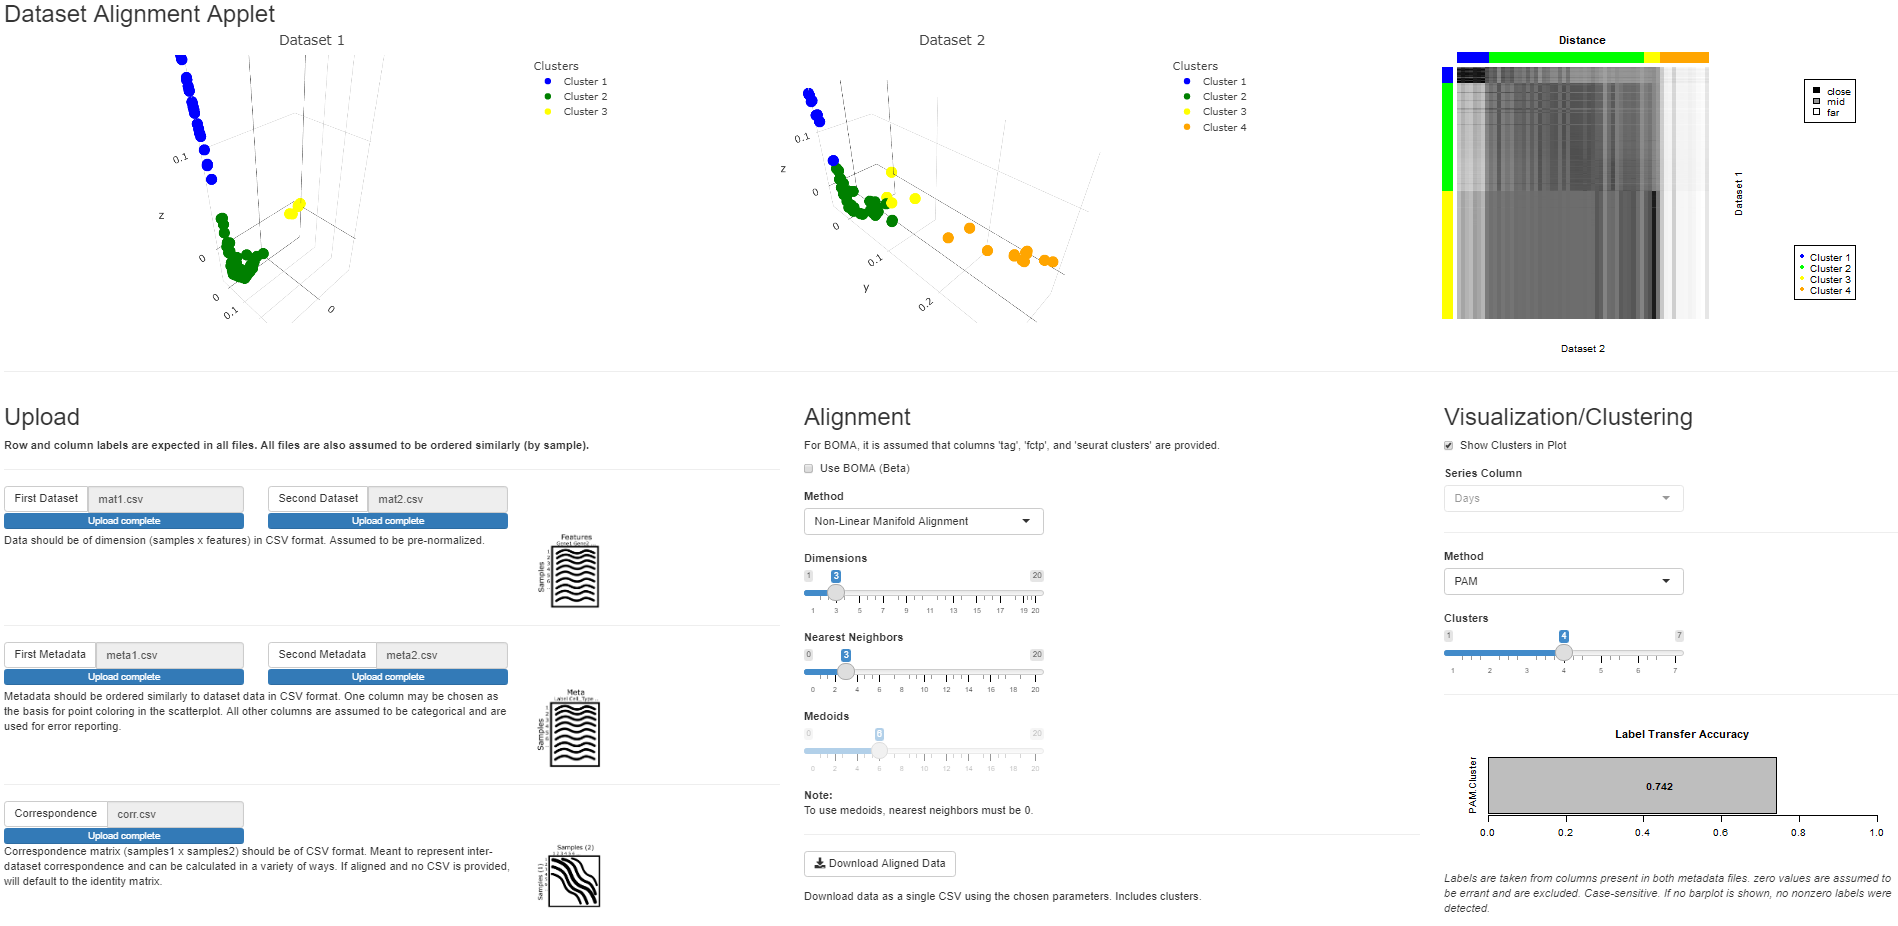
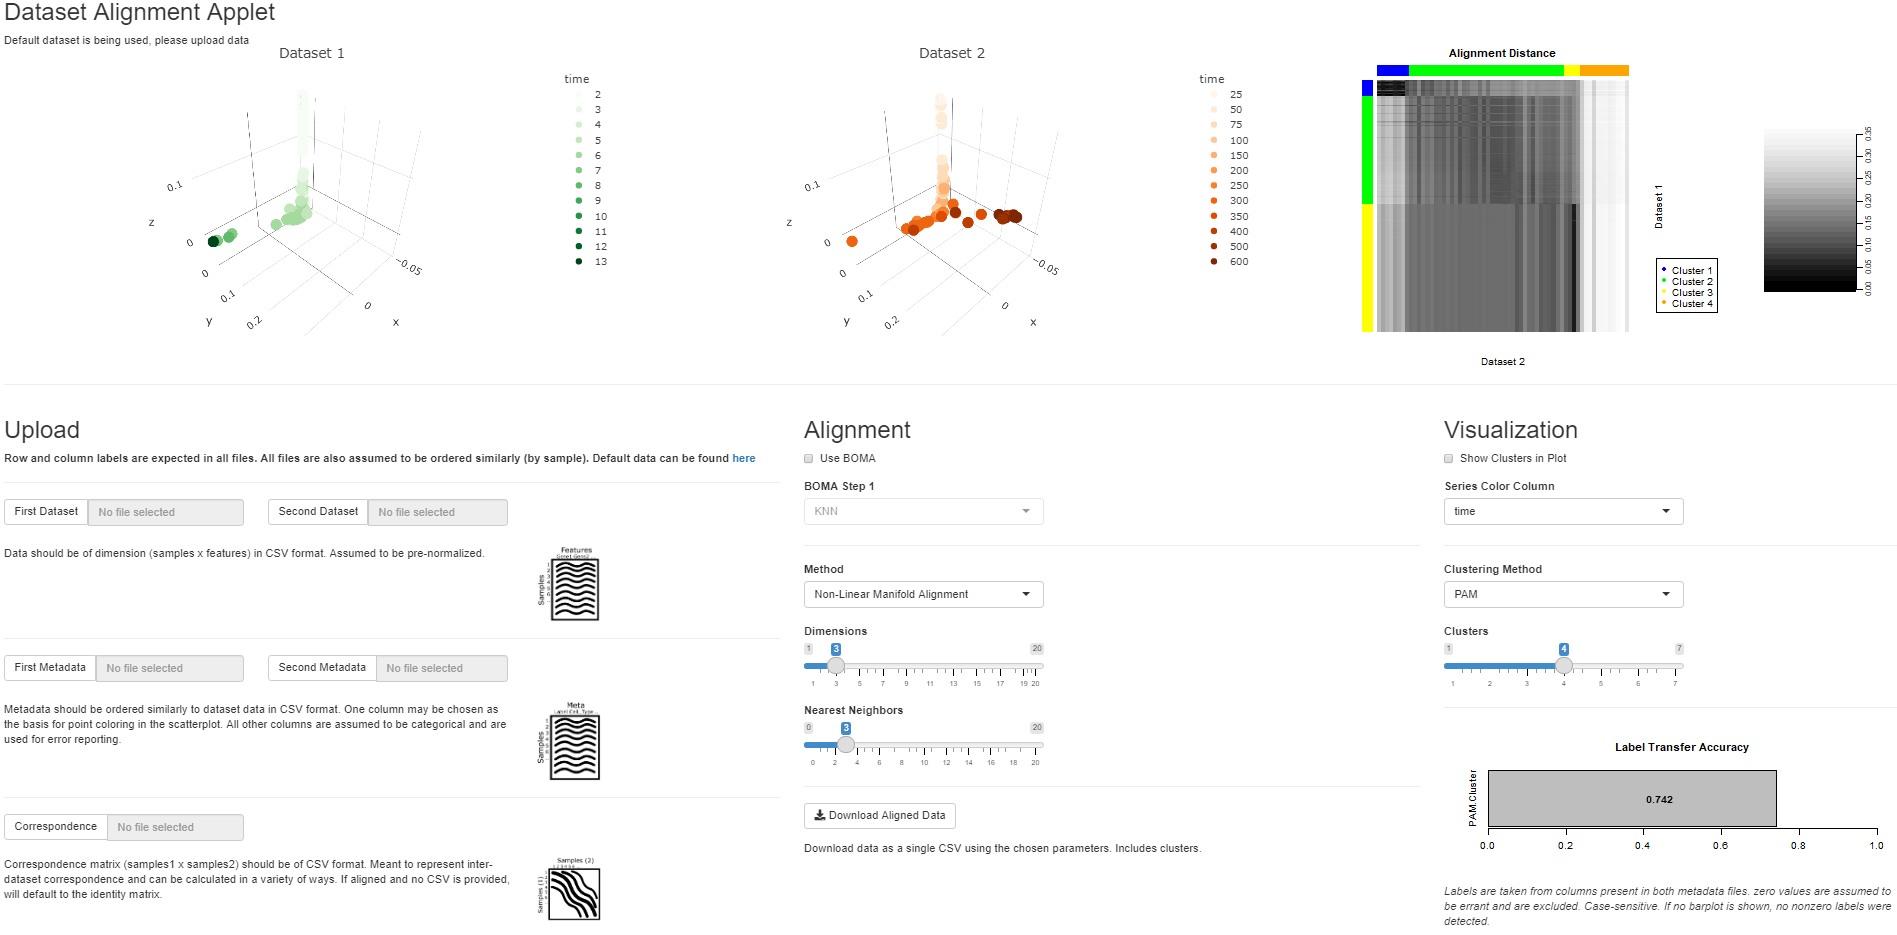
BOMA Framework

diff --git a/CHANGELOG.md b/CHANGELOG.md
@@ -1,3 +1,6 @@
+# 1.3.11
+- Add BOMA UI framework and reactive elements
+
 # 1.3.10
 - Add color bar and unfinished integrated application
 - Revise certain UI elements
